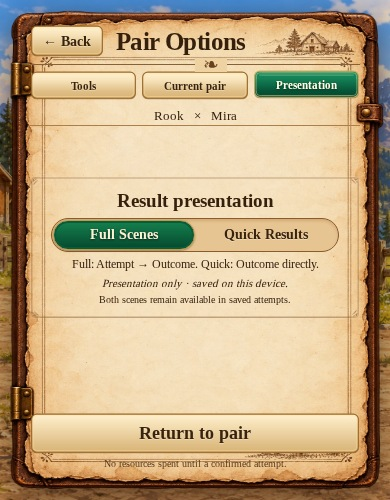
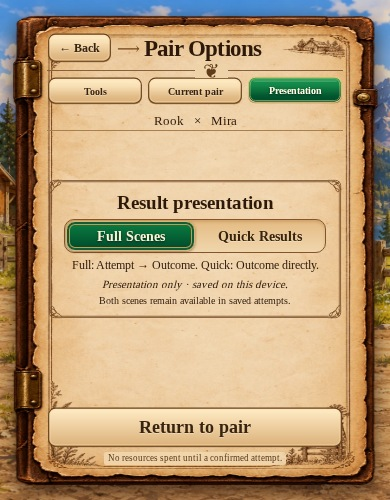
Refine Pair Options B concept framing and engraved journal details

diff --git a/src/features/breeding/PairOptionsJournal.module.css b/src/features/breeding/PairOptionsJournal.module.css
@@ -62,3 +62,49 @@
 .sheet{justify-self:center;width:min(530px,100%)}
 @media(max-width:700px){.sheet{width:min(420px,100%)}}
 @media(min-width:701px) and (min-height:601px) and (max-height:800px){.sheet{width:530px;padding:24px 48px 33px;gap:6px}.tool{padding-top:3px;padding-bottom:3px;min-height:62px;grid-template-columns:40px 1fr 126px}.journal .tool h3{font-size:19px}.tool p{font-size:12px;line-height:1.1}.journal .tool button{min-height:36px}.tools{gap:6px}.presentation{padding-top:4px;padding-bottom:4px;gap:2px}.presentation p{font-size:12px}.presentation small{font-size:11px}.presentation small:last-child{font-size:10px}.journal .modes button{min-height:30px}.journal .presentation h3{font-size:18px}.current{min-height:170px}.footer{gap:3px}.journal .footer button{min-height:35px;font-size:20px}.footer small{font-size:10px}}
+/* B fidelity v3: concept framing, legible engraved rims and fitted name slips. */
+.sheet{background-image:url('/images/ui/pair-options-journal-b/fidelity-v3/journal.webp');filter:drop-shadow(0 7px 10px #241207cc);color:#2d190b}
+.journal button{border-image-source:url('/images/ui/pair-options-journal-b/fidelity-v3/cream.svg')}
+.journal button[data-primary],.journal button[aria-pressed=true]{border-image-source:url('/images/ui/pair-options-journal-b/fidelity-v3/emerald.svg')}
+.header{gap:11px}
+.header h1{font-size:32px;letter-spacing:-.8px}
+.titleArrow{font-size:25px;line-height:1;color:#71431d;margin:0 0 0 1px}
+.header:after{content:'❦';font-size:20px;background:#efd3a8;color:#613b1a}
+.current,.tool,.presentation{border-image-source:url('/images/ui/pair-options-journal-b/fidelity-v3/engraved-frame.svg')}
+.current{padding:7px 4px 4px;background-position:48% 40%;border-image-width:16px}
+.current h2{font-size:19px;top:2px;padding:0 26px}
+.pair{padding-top:12px;gap:2px;position:relative}
+.parent{overflow:visible}
+.journal .profileCrop{position:relative;display:block;width:100%;flex:1;min-height:0;padding:0;border:0;border-image:none;background:none;overflow:hidden;border-radius:0;filter:none;transform:none}
+.profileCrop>img{position:absolute;top:-2px;left:-7%;width:114%;height:auto;max-width:none;max-height:none;filter:drop-shadow(0 3px 2px #3d271255)}
+.journal .profileCrop:hover:not(:disabled),.journal .profileCrop:active:not(:disabled){transform:none;filter:brightness(1.03)}
+.journal .profileCrop:focus-visible{outline:2px solid #c89a51;outline-offset:-3px}
+.parent>div{width:83%;position:relative;z-index:1;margin-top:-6px;border-image-source:url('/images/ui/pair-options-journal-b/fidelity-v3/nameplate.svg');border-image-slice:16 fill;border-image-width:10px;background:none;font-size:16px;padding:4px 1px}
+.current>small{font-size:11px;background:linear-gradient(90deg,#f1d4a5bb,#f8e4c3dd,#f1d4a5bb);margin-top:2px}
+.fallback{background:none;color:#5c3e21;font-size:16px;min-height:70px}
+.tool{border-image-width:15px;background:#fff0d018}
+.tool p{font-size:15px;line-height:1.1}
+.journal .tool h3{font-size:22px}
+.presentation{border-image-width:15px;background:#fff0d011;padding-left:31px;padding-right:31px}
+.modes{border-radius:10px;background:linear-gradient(#e4bb83,#f0d6ad);border-color:#84552c}
+.journal .modes button{border-radius:9px}
+.journal .modes button[aria-pressed=true]{border-image:none;border-radius:9px;border:1px solid #d7b56d;background:linear-gradient(#0b7f42,#00482a);box-shadow:inset 0 0 0 2px #145c36,inset 0 0 0 3px #bd9d56,0 1px 3px #5b351f99}
+.artViewer{height:100dvh;padding:15px;display:grid;place-items:center;background:linear-gradient(#28170e66,#28170e66),url('/images/ui/pair-options-journal-b/fidelity-v2/ranch.webp') center/cover;color:#3b240f;font:16px PairJournal,Georgia,serif}
+.artViewer>article{width:min(620px,100%);height:100%;padding:18px;display:flex;flex-direction:column;align-items:center;gap:10px;background:#f2dbb2 url('/images/ui/inheritance-journal-b/paper.webp') center/cover;border:double 5px #87603a;border-radius:10px;box-shadow:0 8px 35px #24120799}
+.artViewer header{display:flex;justify-content:space-between;align-items:center;gap:12px;width:100%;flex:none}
+.artViewer button{padding:8px 12px;border:1px solid #81542b;border-radius:5px;background:#f3dfbd;font:700 16px PairJournal,Georgia,serif;color:#3b240f;cursor:pointer}
+.artViewer h2{font-size:22px}
+.artViewer>article>img{min-height:0;width:100%;flex:1;object-fit:contain}
+.artViewer small{flex:none}
+@media(max-width:700px){.header{gap:8px}.header h1{font-size:27px}.titleArrow{font-size:20px}.parent>div{font-size:13px;width:90%;padding:4px 0}.current h2{font-size:17px}.current>small{font-size:10px}.journal .tool h3{font-size:18px}.tool p{font-size:13px}.presentation{padding-left:18px;padding-right:18px}.artViewer header{flex-direction:column}.artViewer h2{font-size:19px}}
+@media(min-width:701px) and (min-height:601px) and (max-height:800px){.header h1{font-size:29px}.journal .tool h3{font-size:19px}.tool p{font-size:12px}.profileCrop>img{width:100%;left:0}}
+@media(max-height:600px){.header h1{font-size:25px}.titleArrow{font-size:20px}.journal .tool h3{font-size:18px}.tool p{font-size:12px}.current h2{font-size:16px}.parent>div{font-size:13px}.profileCrop>img{width:auto;height:190%;left:50%;transform:translateX(-50%)}.artViewer{padding:7px}.artViewer>article{padding:8px;gap:5px}.artViewer h2{font-size:18px}.artViewer button{font-size:13px;padding:5px 8px}}
+@media(max-width:700px) and (max-height:600px){.journal .tool h3{font-size:16px}.tool p{font-size:11px}}
+/* Keep the folio's perimeter engraving outside the live cards and text. */
+@media(min-width:701px) and (min-height:801px){.sheet{padding:56px 65px 55px}.header{gap:8px}.header h1{font-size:30px}.tool{grid-template-columns:47px 1fr 125px;gap:8px}.tool p{font-size:14px}.journal .tool h3{font-size:21px}.journal .tool button{font-size:16px}.presentation{padding-left:25px;padding-right:25px}.current{min-height:200px}}
+@media(max-width:700px){.sheet{padding:49px 47px 45px}.header{gap:5px}.header h1{font-size:25px}.journal .header button{font-size:14px;padding:4px 7px}.titleArrow{font-size:19px}.tool{grid-template-columns:30px 1fr 98px;gap:6px;padding-left:3px;padding-right:3px}.tool>img{width:29px}.tool p{font-size:12px}.journal .tool h3{font-size:17px}.journal .tool button{font-size:13px}.presentation{padding-left:8px;padding-right:8px}.profileCrop>img{width:132%;left:-16%}.parent>div{width:96%;font-size:12px}.current{min-height:170px}.current h2{font-size:16px}}
+@media(min-width:701px) and (min-height:601px) and (max-height:800px){.sheet{padding:42px 65px 43px}.tool{grid-template-columns:34px 1fr 114px;gap:6px}.tool>img{width:33px}.header{gap:8px}.header h1{font-size:28px}.tool p{font-size:11px}.journal .tool h3{font-size:18px}.journal .tool button{font-size:14px}.presentation{padding-left:16px;padding-right:16px}.current{min-height:155px}.footer small{font-size:9px}}
+@media(max-height:600px){.sheet{padding:29px 64px 30px}.header{gap:8px}.header h1{font-size:25px}.titleArrow{font-size:19px}.tool{grid-template-columns:30px 1fr 112px;gap:6px}.tool p{font-size:11px}.journal .tool h3{font-size:16px}.journal .tool button{font-size:13px}.profileCrop>img{width:auto;height:190%;left:50%}.current{min-height:90px}.parent>div{font-size:12px}.current h2{font-size:15px}.presentation{padding-left:12px;padding-right:12px}}
+@media(max-width:700px) and (max-height:600px){.sheet{padding:28px 47px 30px}.header{gap:4px}.header h1{font-size:23px}.journal .header button{font-size:12px}.titleArrow{font-size:16px}.tool{grid-template-columns:23px 1fr 84px;gap:4px}.tool>img{width:22px}.journal .tool h3{font-size:15px}.journal .tool button{font-size:12px}.tool p{font-size:10px}.journal .views button{font-size:10px}.footer small{font-size:9px}}
+@media(max-height:420px){.sheet{padding-top:26px;padding-bottom:27px;gap:3px}.tool{min-height:45px}.journal .footer button{min-height:27px}.footer{gap:1px}.journal .views button{min-height:23px}}
+.footer small{justify-self:center;position:relative;z-index:1;background:#f1d6aceb;padding:1px 4px;border-radius:2px}

diff --git a/src/features/breeding/PairOptionsJournal.tsx b/src/features/breeding/PairOptionsJournal.tsx
@@ -4,16 +4,24 @@ import type {BreedingParticipant,BreedingPreview} from '@/types/breeding';
 import {GameDialog} from '@/features/ui/GameDialog';
 import p from './PairOptionsJournal.module.css';
 type Props={giver:BreedingParticipant|null;receiver:BreedingParticipant|null;preview:BreedingPreview|null;onClose:()=>void;onSwap:()=>void;onRandom:()=>void;onClear:()=>void;canSwap:boolean;disabled:boolean;sceneMode:'full'|'quick';onSceneMode:(m:'full'|'quick')=>void};
-function ParentArt({parent,role}:{parent:BreedingParticipant|null;role:string}){const[failed,setFailed]=useState('');return <div className={p.parent}>{parent?.kind==='creature'&&parent.profilePath&&failed!==parent.profilePath?<img src={parent.profilePath} alt={`${parent.displayName} full-body profile`} onError={()=>setFailed(parent.profilePath??'')}/>:<span className={p.fallback}>{parent?.displayName??`Choose ${role.toLowerCase()}`}</span>}<div><strong>{parent?.displayName??`Choose ${role.toLowerCase()}`}</strong><span> · {role}</span></div></div>}
+function ParentArt({parent,role}:{parent:BreedingParticipant|null;role:string}){
+ const[failed,setFailed]=useState(''),[expanded,setExpanded]=useState(false);
+ const source=parent?.kind==='creature'&&parent.profilePath&&failed!==parent.profilePath?parent.profilePath:null;
+ return <div className={p.parent}>
+ {source?<button className={p.profileCrop} aria-label={`View ${parent?.displayName} full profile`} onClick={()=>setExpanded(true)}><img src={source} alt={`${parent?.displayName} profile`} onError={()=>setFailed(source)}/></button>:<span className={p.fallback}>{parent?.displayName??`Choose ${role.toLowerCase()}`}</span>}
+ <div><strong>{parent?.displayName??`Choose ${role.toLowerCase()}`}</strong><span> · {role}</span></div>
+ {expanded&&source&&<GameDialog title={`${parent?.displayName} full profile`} fullScreen onClose={()=>setExpanded(false)}><main className={p.artViewer}><article><header><button onClick={()=>setExpanded(false)}>← Back to Pair Options</button><h2>{parent?.displayName} · {role}</h2></header><img src={source} alt={`${parent?.displayName} complete full-body profile`}/><small>Original creature artwork · full figure</small></article></main></GameDialog>}
+ </div>;
+}
 export function PairOptionsJournal({giver,receiver,preview,onClose,onSwap,onRandom,onClear,canSwap,disabled,sceneMode,onSceneMode}:Props){
  const[short,setShort]=useState(false),[view,setView]=useState('Tools');useEffect(()=>{const update=()=>setShort(innerHeight<=600||(innerWidth<=700&&innerHeight<=780));const frame=requestAnimationFrame(update);addEventListener('resize',update);return()=>{cancelAnimationFrame(frame);removeEventListener('resize',update)}},[]);
  const tools=[{id:'swap',title:'Swap Roles',text:'Both parents must support the new role.',button:'Swap Roles',onClick:onSwap,blocked:disabled||!canSwap,reason:disabled?'Pair tools are unavailable during the current action.':!canSwap?'Choose two parents who can take each other’s role.':null},{id:'random',title:'Random Pair',text:'Selects an eligible creature pair. No attempt is run.',button:'Random Pair',onClick:onRandom,blocked:disabled,reason:disabled?'Pair tools are unavailable during the current action.':null},{id:'clear',title:'Clear Pair',text:'Clears selections only.',button:'Clear Pair',onClick:onClear,blocked:disabled||(!giver&&!receiver),reason:disabled?'Pair tools are unavailable during the current action.':!giver&&!receiver?'The pairing desk is already empty.':null}];
  return <GameDialog title="Pair Options" fullScreen onClose={onClose}><main className={p.journal} data-breeding-book="pair-options" data-short={short}><article className={p.sheet}>
- <header className={p.header}><button onClick={onClose}>← Back</button><h1>Pair Options</h1></header>
+ <header className={p.header}><button onClick={onClose}>← Back</button><span aria-hidden="true" className={p.titleArrow}>⟶</span><h1>Pair Options</h1></header>
  {short&&<nav className={p.views} aria-label="Pair options sections">{['Tools','Current pair','Presentation'].map(v=><button key={v} aria-pressed={view===v} onClick={()=>setView(v)}>{v}</button>)}</nav>}
  {(!short||view==='Current pair')&&<section className={p.current} aria-label="Current pair"><h2>Current pair</h2><div className={p.pair}>{[giver,receiver].map((parent,i)=><ParentArt key={i} parent={parent} role={i?'Receiver':'Giver'}/>)}</div><small>{giver&&receiver&&preview?`Current pregnancy chance: ${preview.pregnancyChance}%`:'Choose both parents at the pairing desk.'}</small></section>}
  {short&&view!=='Current pair'&&<div className={p.names}>{giver?.displayName??'Choose giver'} <span>×</span> {receiver?.displayName??'Choose receiver'}</div>}
- {(!short||view==='Tools')&&<section className={p.tools} aria-label="Pair tools">{tools.map(t=><article className={p.tool} key={t.id}><img src={`/images/ui/pair-options-journal-b/fidelity-v2/${t.id}.svg`} alt=""/><div><h3>{t.title}</h3><p>{t.text}</p>{t.reason&&<small className={p.blocker}>{t.reason}</small>}</div><button data-primary={t.id!=='clear'||undefined} disabled={t.blocked} onClick={t.onClick}>{t.button}</button></article>)}</section>}
+ {(!short||view==='Tools')&&<section className={p.tools} aria-label="Pair tools">{tools.map(t=><article className={p.tool} key={t.id}><img src={`/images/ui/pair-options-journal-b/fidelity-v3/${t.id}.svg`} alt=""/><div><h3>{t.title}</h3><p>{t.text}</p>{t.reason&&<small className={p.blocker}>{t.reason}</small>}</div><button data-primary={t.id!=='clear'||undefined} disabled={t.blocked} onClick={t.onClick}>{t.button}</button></article>)}</section>}
  {(!short||view==='Presentation')&&<section className={p.presentation}><h3>Result presentation</h3><div className={p.modes} role="group" aria-label="Scene Mode"><button aria-pressed={sceneMode==='full'} onClick={()=>onSceneMode('full')}>Full Scenes</button><button aria-pressed={sceneMode==='quick'} onClick={()=>onSceneMode('quick')}>Quick Results</button></div><p>Full: Attempt → Outcome. Quick: Outcome directly.</p><small>Presentation only · saved on this device.</small><small>Both scenes remain available in saved attempts.</small></section>}
  <footer className={p.footer}><button onClick={onClose}>Return to pair</button><small>No resources spent until a confirmed attempt.</small></footer>
  </article></main></GameDialog>;

diff --git a/public/images/ui/pair-options-journal-b/fidelity-v3/README.md b/public/images/ui/pair-options-journal-b/fidelity-v3/README.md
@@ -1,0 +1,17 @@
+# Pair Options B — closer concept fidelity
+
+Acceptance reference: user-uploaded `b5a84eae-05a6-40c5-bec1-d7e8b0d58202.png`, center B Ranch Field Journal. The latest request was to bring the runtime still closer to that concept. This revision changes the main scenic figures to close concept framing using the exact registered **profilePath** sources. It does not regenerate characters, change outfits or substitute portraitPath. Each artwork is a native labeled button opening a read-only full-figure view; Back/Escape restores the same pairing journal. This focused illustration framing supersedes the earlier contained-figure main-strip styling for Pair Options only. Other breeding windows remain unchanged.
+
+New generated folio: less rounded leather, stronger warm parchment, delicate barn/daisy/grass/windmill/fence ink marginalia. The first master is the untouched initial tool output; final master is the untouched targeted edit. `journal.webp` is a Sharp1800px-high quality92 derivative retaining alpha. Its perimeter rules and marginal art are kept outside the live cards by explicit desktop/phone paper gutters; footer text has a quiet paper backing. No texture is used as a substitute for live text or interaction.
+
+Native `scripts/build-pair-options-fidelity-v3.mjs` generates stronger hand-ink card rims, notched parchment name slips, brighter emerald/cream controls, and brown action icons. Bundled licensed Tinos400/700 and existing fidelity-v2 alpine scenery remain. The inset directional header arrow, fitted name slips and joined square-rounded mode control follow B. The player/no-art fallback stays named and honest. No gold botanical overlays, clovers, paid fonts or paid plugins.
+
+Generated with the built-in image generation tool. Reference board was a style reference for the first generation; the first generated master was the edit target for the margin cleanup. Both original PNGs are retained in `source/`.
+
+Exact initial prompt:
+
+> Use case: stylized-concept. Production game UI asset. Reference image: ONLY center B Ranch Field Journal, ignore A and C. Closely reproduce B's tall narrow leather-bound parchment folio material and its distinctive fine brown botanical and ranch engraving detail. A front-facing closed single vertical paper page on dark weathered leather backing, deckled uneven double parchment edge, squared corners with softly worn tears, thin dark burnt-brown binding, brass spine plate left and small brass leather latch right at upper third. Warm medium honey tan parchment, darker aged corners, subtle finely mottled fiber grain. Thin hand ink double rule around inner perimeter. Marginal ink drawings exactly like B: small barn at top-right; tiny daisy and grasses along lower-left edge; small windmill and pasture grasses along right edge at 75% height; tiny fence bottom-right. Keep all illustrations ONLY within the outermost 7 percent margins. Interior 86 percent is uninterrupted blank paper for live UI, no boxes/frames/rules across that area. Composition fills image nearly edge to edge. Tall narrow book, 1:2 width to height. NO letters or text, NO characters, NO buttons, NO card panels, NO gold vines, NO clovers, NO bright glossy leather corner caps. Rich detailed early fantasy RPG journal, dark umber ink on aged amber cream. Transparent outside book.
+
+Exact targeted edit prompt:
+
+> Precise production UI asset edit. Keep this exact leather-bound parchment book, transparent background, deckled paper, color and material. Change ONLY decorative ink drawings to protect the UI: shrink top-right barn sketch to one third its current size, confine it to the top-right corner inside the top 8 percent strip. Remove the tall ink botanical vine along the right edge at middle height, leaving that margin blank. Make left-bottom daisy/grass cluster half as wide, confined to outermost 5 percent of left edge, preserve delicate ink petals. Shrink bottom-right windmill and fence to half current width, confine to outermost 6 percent right edge. Inner paper must remain blank uninterrupted, all center 86 percent for live menu controls. Do not draw any UI/text/cards/buttons/characters. No clovers or gold vines. Preserve outer perimeter thin ink rule, exact book silhouette and alpha.

diff --git a/docs/PAIR_OPTIONS_JOURNAL_B_RUNTIME.md b/docs/PAIR_OPTIONS_JOURNAL_B_RUNTIME.md
@@ -19,3 +19,11 @@ The new composition follows B's narrow book silhouette, distressed materials, sc
 At1440x900, the book is bounded to530px wide and884px high. At1920x720 it compresses the spacing rather than stretching across the viewport. Phones bound the book to the viewport width; short screens retain the same meaningful Tools/Current pair/Presentation focus controls. Validation explicitly checks every button and footer note against viewport bounds, in addition to sheet overflow. Tests retain scene mode persistence, selection tools/returns, empty disabled reasons and serialized save unchanged. Actual captures replace the old evidence in the existing validation directory; no attempts/resources were consumed.
 
 Fidelity validation: optimized Next16.2.6 production build and TypeScript pass; ESLint has zero errors/two existing native-img advisories; selection-preview tests3/3 pass. The full production-server browser run passes all six viewport sizes and all three short-screen sections, all control/footer bounds, no sheet overflow, scene persistence, swap/random/clear returns, empty-pair reasons and save immutability, with zero page errors. Evidence is captured from the actual production build with all menu image decoding/fonts awaited. Deployment verification follows the commit through the existing Vercel preview; PR21 remains draft/unmerged.
+
+## Closer concept pass — fidelity-v3
+
+A second side-by-side request identified the remaining small figures, broad nameplates, faint card rims and sparse ink detail. The main illustration now closely frames the canonical profilePath sources like B, with compact notched name slips. Clicking/tapping a labeled parent artwork opens a read-only full-figure GameDialog; its Back and Escape close only that art view and restore the journal. No replacement or portraitPath art is introduced. New true-alpha folio and margin-cleanup edit retain untouched masters/exact prompts under fidelity-v3. The native builder adds richer dark-ink corner details and brighter emerald/cream controls. The inset arrow, paper gutters, card geometry and rounded mode selector follow the selected B hierarchy. Paper perimeter rules stay outside live card content; the footer note receives a quiet backing. Remaining visual differences include the canonical character identities/outfits and authoritative live labels/values, rather than the concept's invented illustrative cast and sample text.
+
+Validation additionally covers read-only full-art opening/return, complete image containment, phone art view/Escape and save immutability; desktop/phone actual captures and six-viewport controls/overflow checks are refreshed. Existing selection callbacks, busy/role guards and device scene-mode preference remain unchanged. All actual controls stay live DOM, never baked into the generated textures.
+
+Final v3 verification: Next16.2.6 optimized production build/TypeScript pass; ESLint zero errors/three native-img advisories; existing selection-preview regressions3/3 pass. Production-server browser checks pass1440x900,1920x720,390x844,360x740,390x500,844x390 with every focus section/control/footer note contained and no sheet overflow. Desktop full-art Back, phone full-art Escape, scene persistence, swap/random/clear returns, empty blockers, zero page errors and serialized save unchanged all pass. No attempts/items/resources consumed. Hosted verification follows the exact published commit; PR21 stays draft/unmerged.

diff --git a/AGENTS.md b/AGENTS.md
@@ -200,3 +200,5 @@ User selected the warm parchment B from the generated Inheritance comparison boa
 User selected parchment Ranch Field Journal B, requested matching assets, actual game screenshots and a testing link. PairOptionsJournal uses the existing journal paper/Tinos/cream/emerald/gold family, three editable brown-ink action symbols, canonical contained full-body current parents, live chance, three compact tool rows and Full/Quick pressed-state controls. No vine overlays or replacement character art. Short screens use meaningful Tools/Current pair/Presentation focus. Keep visible empty/disabled reasons, original selection-only callbacks and device scene-mode persistence; no attempt/resources are consumed by tools. See docs/PAIR_OPTIONS_JOURNAL_B_RUNTIME.md and public/images/ui/pair-options-journal-b/README.md. PR21 remains draft/unmerged.
 
 Pair Options B fidelity correction: the user rejected the original wide flat paper implementation as unlike the selected concept. Use the centered tall leather-bound journal, deckled aged parchment, inset cream Back/header, alpine scenic current pair, engraved ink action cards, brown dimensional dice/arrows, emerald/cream controls and joined rounded scene toggle under pair-options-journal-b/fidelity-v2. Never restore the full-width wood header or stretched landscape sheet for this window. Keep complete canonical profilePath figures and named player fallback rather than the concept's illustrative replacements; live text/actions remain independent of the painted art. Compare composition and materials against the supplied B board, not just palette/overflow. Preserve source returns, eligibility, busy guards and selection-only semantics; PR21 stays draft/unmerged.
+
+Pair Options B closer-concept follow-up: the user again requested matching B more closely. `fidelity-v3` adds the stronger engraved frame/control family, notched smaller name slips, directional header arrow, warm true-alpha folio and confined ranch/daisy ink marginalia. The main scenic parents now use close concept framing of the exact canonical profilePath image; clicking/tapping the labeled artwork opens the complete unchanged figure read-only and Back/Escape returns to the same pair. This supersedes the prior whole-figure containment requirement **inside the Pair Options main scenic strip only**, without changing character sources or other windows. Keep the folio perimeter rule outside live content using paper gutters and protect the footer text from decoration. Preserve live values, all selection guards/callbacks, scene preference persistence and zero save/resource changes while browsing. See fidelity-v3/README.md and the runtime validation. PR21 remains draft/unmerged.

diff --git a/public/images/ui/pair-options-journal-b/README.md b/public/images/ui/pair-options-journal-b/README.md
@@ -9,3 +9,5 @@ Live UI text, controls, parent names and current chance are separate from art. I
 ## Superseding fidelity pass
 
 The user rejected the initial wide flat-paper presentation. `fidelity-v2/README.md` documents its replacement assets, exact generation prompts, retained masters and editable surfaces. PairOptionsJournal now uses the tall centered leather-bound journal composition with its own inset header; the old SVGs above are retained only as historical source, not runtime styling.
+
+The closer-concept follow-up uses `fidelity-v3/README.md`: close framing from canonical profilePath with an explicit full-figure read-only view, stronger engraved surfaces, fitted name slips, inset directional arrow and true-alpha ranch-illustrated folio. The old v2 assets remain source history; its alpine scenery is still reused.
